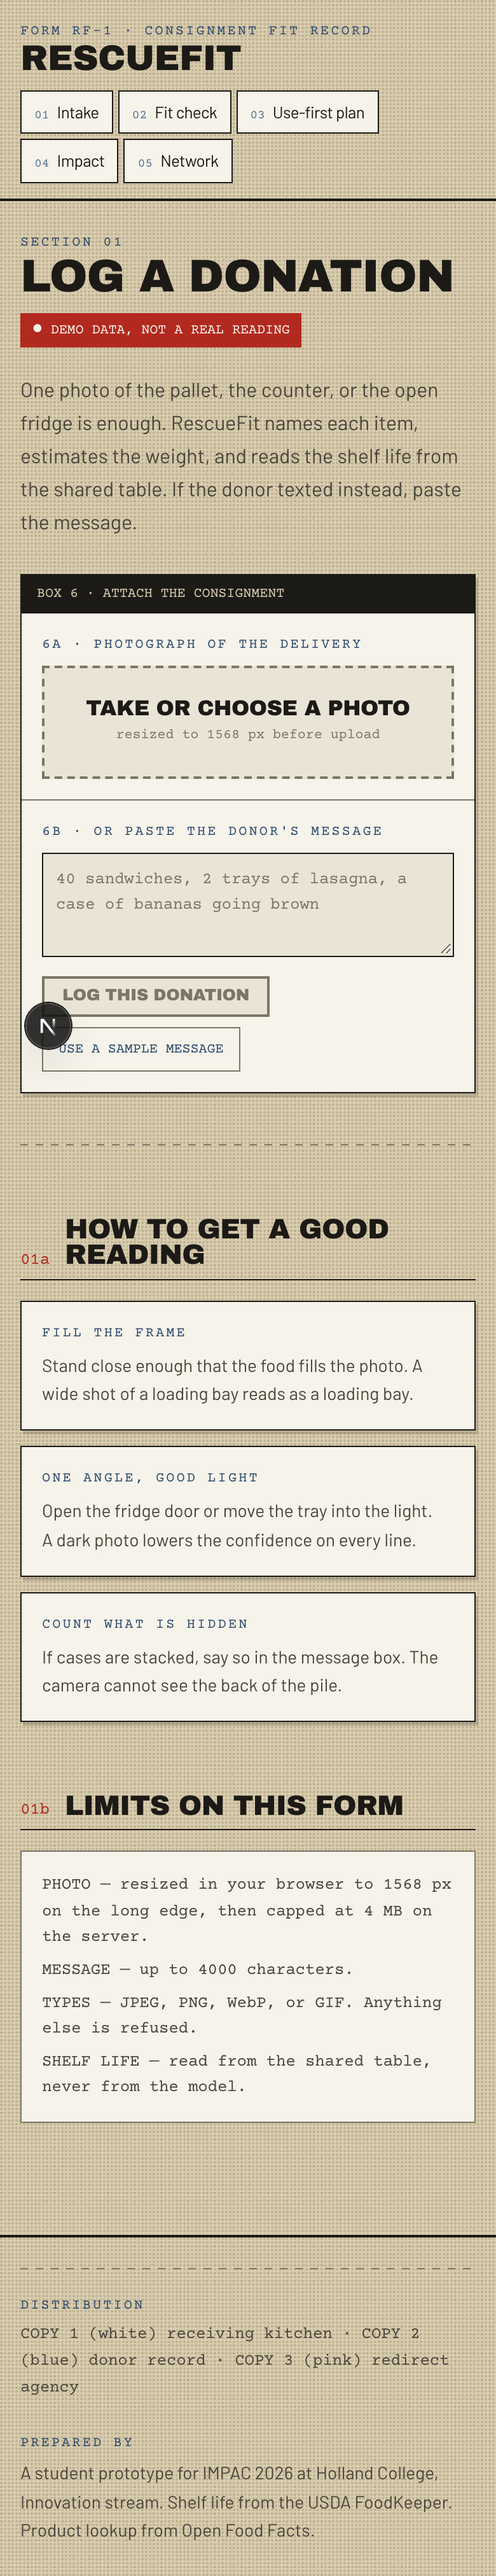
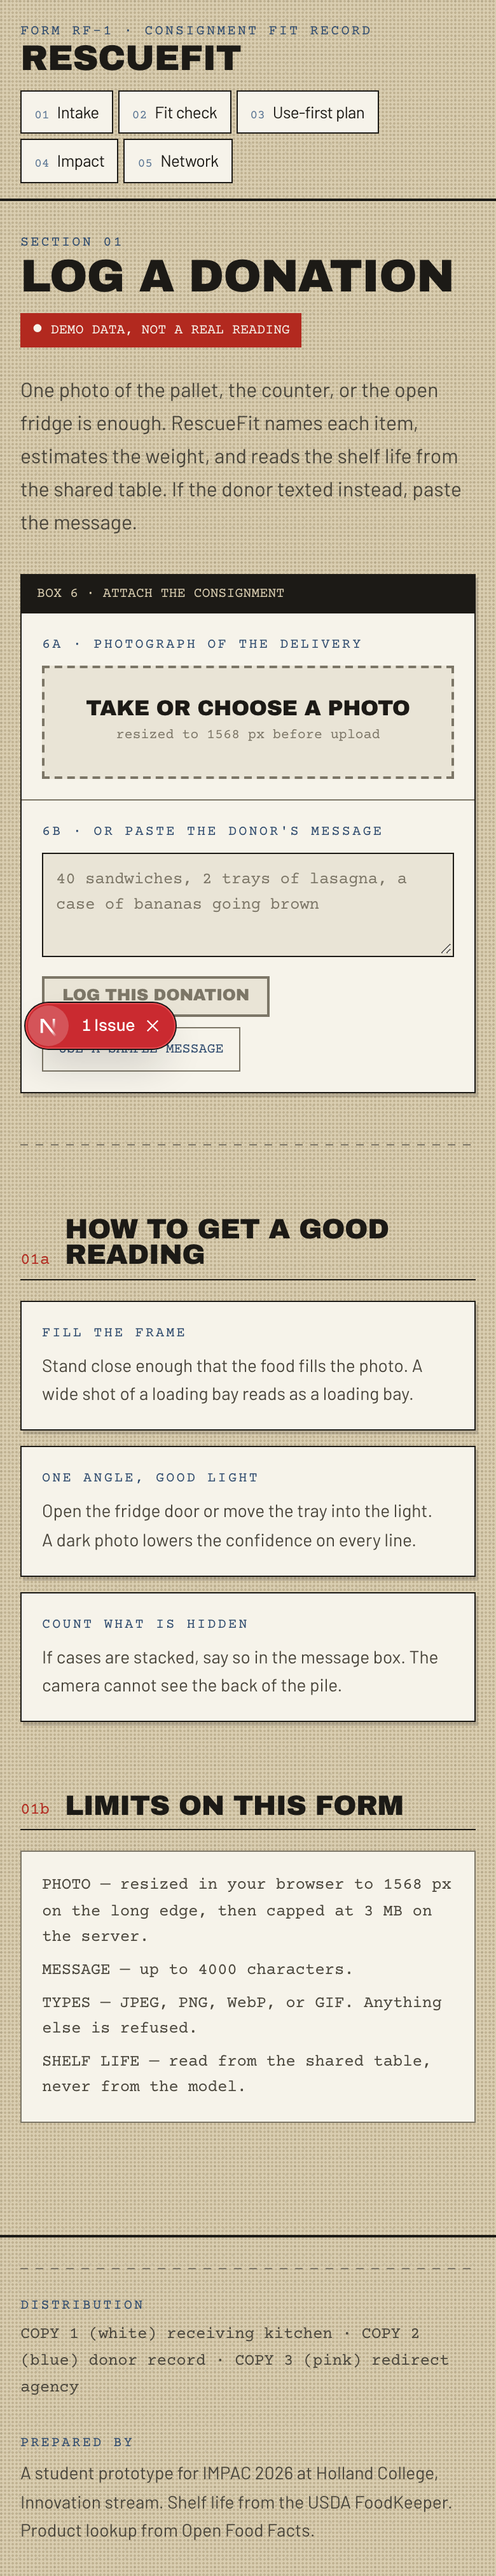
Let the dev server run under the new CSP
The security headers added in the previous commit broke the development
server. React calls eval() in development only, to rebuild callstacks and
drive other debugging features, so the browser console filled with CSP
violations on every page and the Next.js overlay reported an issue.

script-src now adds 'unsafe-eval' when NODE_ENV is not production. React
never uses eval in a production build, so the shipped policy is unchanged.

Verified both ways: next start on port 3100 serves the strict policy with
no 'unsafe-eval', the dev server serves the relaxed one, and a browser
pass over all six routes reports no console errors.

Changed region(s): [[0.0615, 0.3735, 0.3692, 0.4358]]

diff --git a/app/next.config.ts b/app/next.config.ts
@@ -21,6 +21,14 @@ const nextConfig: NextConfig = {
    * calls this app's own routes.
    */
   async headers() {
+    // React uses eval() in development only, for callstack reconstruction
+    // and other debugging features. It never uses eval in production, so
+    // the shipped policy stays strict and only the dev server relaxes.
+    const isDev = process.env.NODE_ENV !== "production";
+    const scriptSrc = isDev
+      ? "script-src 'self' 'unsafe-inline' 'unsafe-eval'"
+      : "script-src 'self' 'unsafe-inline'";
+
     return [
       {
         source: "/:path*",
@@ -39,7 +47,7 @@ const nextConfig: NextConfig = {
               "default-src 'self'",
               "img-src 'self' data: blob:",
               "style-src 'self' 'unsafe-inline'",
-              "script-src 'self' 'unsafe-inline'",
+              scriptSrc,
               "connect-src 'self'",
               "font-src 'self'",
               "frame-ancestors 'none'",
